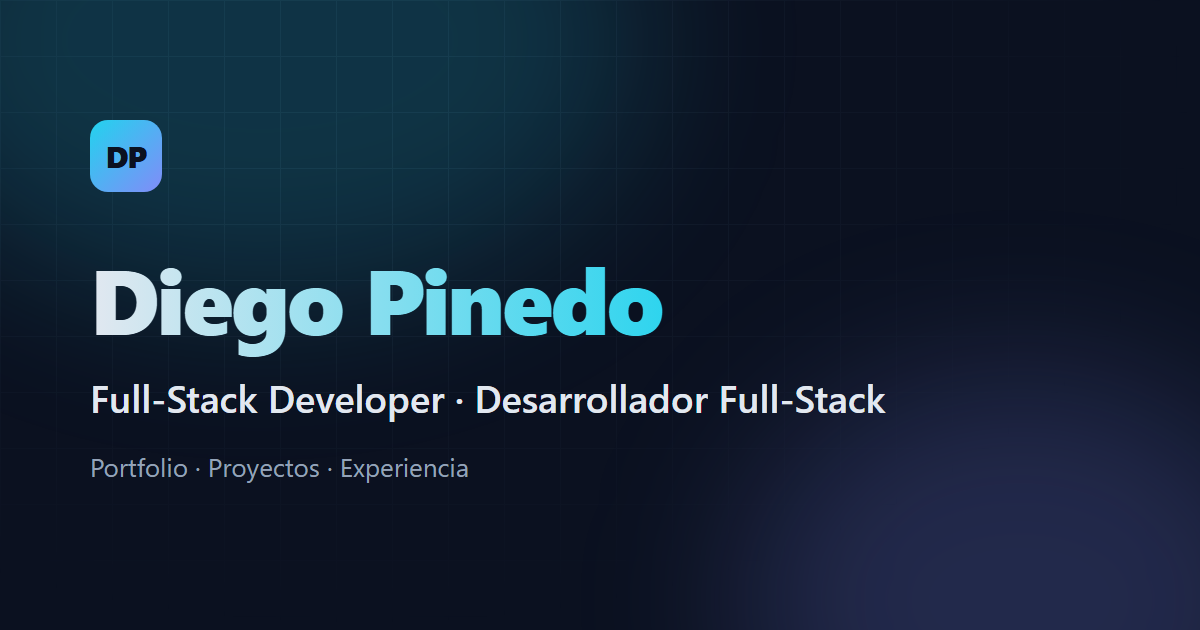
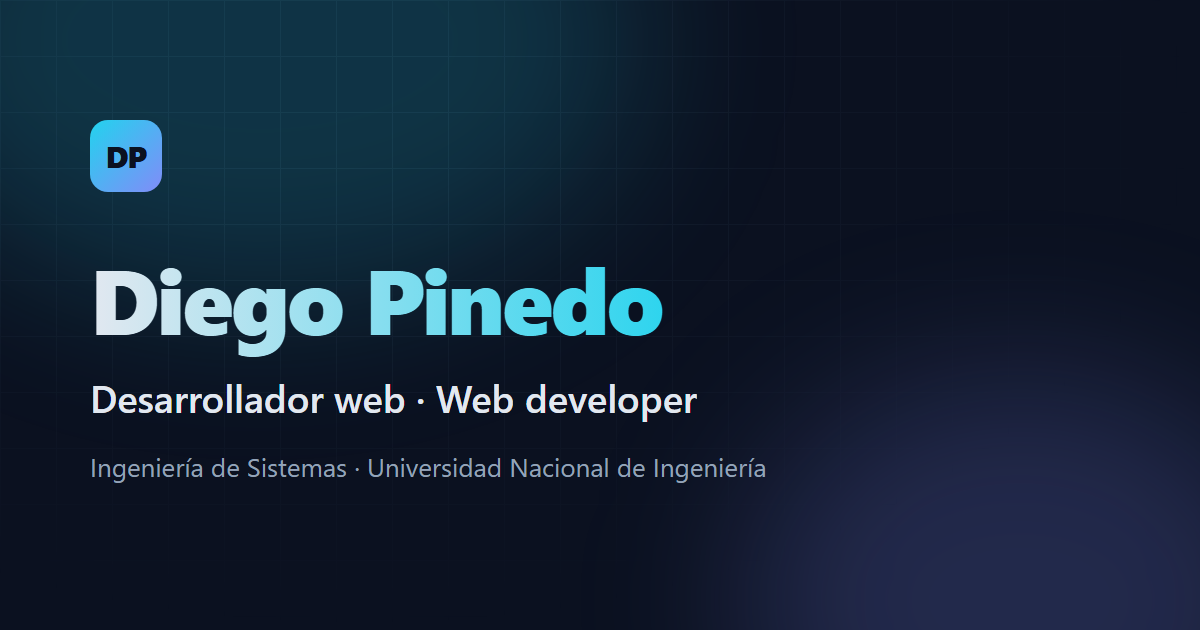
feat(content): add profile, skills and contact data from CV

Changed region(s): [[0.0617, 0.6032, 0.74, 0.6635], [0.0617, 0.7238, 0.6475, 0.7841]]

diff --git a/src/data/site.ts b/src/data/site.ts
@@ -2,22 +2,27 @@
  * Datos personales del portafolio.
  * Los valores marcados con MOCK son provisionales y deben reemplazarse por los definitivos.
  */
+import type { IconName } from '../components/ui/Icon.astro';
 import avatar from '../assets/mock/avatar.svg'; // MOCK: reemplazar por la foto de perfil (p. ej. ../assets/profile.jpg)
 
 export type Localized = { es: string; en: string };
 
 export const site = {
   name: 'Diego Pinedo',
+  fullName: 'Diego Alonso Pinedo Aponte',
   avatar,
-  role: { es: 'Desarrollador Full-Stack', en: 'Full-Stack Developer' } satisfies Localized,
-  tagline: {
-    es: 'Diseño y desarrollo aplicaciones web de punta a punta, cuidando el rendimiento, la accesibilidad y la experiencia de quien las usa.',
-    en: 'I design and build end-to-end web applications, with a focus on performance, accessibility and user experience.',
+  role: {
+    es: 'Desarrollador web · Estudiante de Ingeniería de Sistemas',
+    en: 'Web developer · Systems Engineering student',
   } satisfies Localized,
-  email: 'correo@ejemplo.com', // MOCK
+  tagline: {
+    es: 'Diseño y desarrollo plataformas web de punta a punta, desde la base de datos hasta la interfaz, y lidero equipos tecnológicos en la Universidad Nacional de Ingeniería.',
+    en: 'I design and build end-to-end web platforms, from the database to the interface, and lead tech teams at the National University of Engineering (UNI) in Lima, Peru.',
+  } satisfies Localized,
+  email: 'diego.pinedo1229@gmail.com',
   socials: {
     github: 'https://github.com/dieg0-29',
-    linkedin: 'https://www.linkedin.com/in/usuario', // MOCK
+    linkedin: 'https://www.linkedin.com/in/diego-alonso-pinedo-aponte-998ab1351/',
   },
   cv: {
     es: '/cv/cv-diego-pinedo-es.pdf', // MOCK: reemplazar los PDF en public/cv/
@@ -25,46 +30,52 @@ export const site = {
   } satisfies Localized,
   available: true,
   about: {
-    // MOCK: biografía de 2 a 3 párrafos cortos.
     es: [
-      'Soy desarrollador full-stack con experiencia creando aplicaciones web modernas, desde la interfaz hasta la API y la base de datos. Me gusta transformar problemas complejos en productos simples e intuitivos.',
-      'Trabajo principalmente con TypeScript, React, Astro y Node.js. Me importan el código limpio, las buenas prácticas de UI/UX y que cada proyecto se sienta rápido y cuidado en cualquier dispositivo.',
-      'Actualmente busco sumarme a un equipo donde pueda seguir creciendo, aportar desde el primer día y construir software que tenga impacto real.',
+      'Soy estudiante de Ingeniería de Sistemas en la Universidad Nacional de Ingeniería (UNI), en el quinto superior de mi promoción, con experiencia en diseño y arquitectura de sistemas, desarrollo web y gestión de bases de datos. Me interesa seguir aprendiendo sobre arquitectura cloud.',
+      'He participado en la creación de soluciones integrales a través de plataformas web y en la automatización de procesos operativos. Trabajo principalmente con Astro, Next.js, Supabase y PostgreSQL.',
+      'También lidero equipos tecnológicos: coordino el desarrollo de plataformas orientadas a mejorar la experiencia del usuario y aplico metodologías ágiles con GitHub Projects y GitFlow.',
     ],
     en: [
-      "I'm a full-stack developer with experience building modern web applications, from the interface to the API and the database. I enjoy turning complex problems into simple, intuitive products.",
-      'I mainly work with TypeScript, React, Astro and Node.js. I care about clean code, solid UI/UX practices, and making every project feel fast and polished on any device.',
-      "I'm currently looking to join a team where I can keep growing, contribute from day one, and build software with real impact.",
+      "I'm a Systems Engineering student at the National University of Engineering (UNI) in Lima, Peru, ranked in the top fifth of my class, with experience in systems design and architecture, web development and database management. I'm keen to keep learning about cloud architecture.",
+      "I've helped build end-to-end solutions through web platforms and automate operational processes. I mainly work with Astro, Next.js, Supabase and PostgreSQL.",
+      'I also lead tech teams: I coordinate the development of platforms focused on improving user experience and apply agile practices with GitHub Projects and GitFlow.',
     ],
   },
   facts: [
-    // MOCK
-    { key: 'about.location', value: { es: 'Ciudad, País', en: 'City, Country' } },
-    { key: 'about.focus', value: { es: 'Frontend · APIs · UX', en: 'Frontend · APIs · UX' } },
-    { key: 'about.languages', value: { es: 'Español (nativo), Inglés (B2)', en: 'Spanish (native), English (B2)' } },
+    { key: 'about.location', icon: 'map-pin', value: { es: 'Lima, Perú', en: 'Lima, Peru' } },
+    {
+      key: 'about.education',
+      icon: 'graduation',
+      value: { es: 'Ingeniería de Sistemas, UNI (7.º ciclo)', en: 'Systems Engineering, UNI (7th term)' },
+    },
+    {
+      key: 'about.focus',
+      icon: 'layout',
+      value: { es: 'Desarrollo web · Bases de datos · Cloud', en: 'Web development · Databases · Cloud' },
+    },
   ] as const,
 } as const;
 
-/** Habilidades agrupadas por categoría. MOCK: ajustar al stack tecnológico real. */
-export const skills: { title: Localized; icon: 'layout' | 'server' | 'database' | 'wrench'; items: string[] }[] = [
+/** Habilidades agrupadas por categoría. */
+export const skills: { title: Localized; icon: IconName; items: string[] }[] = [
   {
     title: { es: 'Frontend', en: 'Frontend' },
     icon: 'layout',
-    items: ['TypeScript', 'JavaScript', 'React', 'Astro', 'Next.js', 'Tailwind CSS', 'HTML & CSS'],
+    items: ['Astro', 'Next.js', 'React', 'Tailwind CSS', 'JavaScript', 'TypeScript', 'HTML', 'CSS'],
   },
   {
-    title: { es: 'Backend', en: 'Backend' },
-    icon: 'server',
-    items: ['Node.js', 'Express', 'REST APIs', 'Python', 'Autenticación JWT'],
-  },
-  {
-    title: { es: 'Bases de datos', en: 'Databases' },
+    title: { es: 'Backend y datos', en: 'Backend & data' },
     icon: 'database',
-    items: ['PostgreSQL', 'MongoDB', 'Prisma', 'SQL'],
+    items: ['NestJS', 'Python', 'Java', 'PostgreSQL', 'Supabase', 'Prisma ORM'],
   },
   {
-    title: { es: 'Herramientas', en: 'Tools' },
+    title: { es: 'Gestión y versionado', en: 'Workflow & version control' },
     icon: 'wrench',
-    items: ['Git & GitHub', 'Docker', 'Vercel', 'Figma', 'Vitest', 'Linux'],
+    items: ['Git', 'GitHub', 'GitHub Projects', 'GitFlow', 'Vercel'],
+  },
+  {
+    title: { es: 'Certificaciones', en: 'Certifications' },
+    icon: 'star',
+    items: ['Power BI Intermedio (UNI)', 'Excel Intermedio'],
   },
 ];

diff --git a/src/i18n/ui.ts b/src/i18n/ui.ts
@@ -8,9 +8,9 @@ export const defaultLang: Lang = 'es';
 
 export const ui = {
   es: {
-    'meta.title': 'Diego Pinedo — Desarrollador Full-Stack',
+    'meta.title': 'Diego Pinedo — Desarrollador web',
     'meta.description':
-      'Portafolio de Diego Pinedo: proyectos, habilidades y experiencia en desarrollo web full-stack.',
+      'Portafolio de Diego Pinedo, desarrollador web y estudiante de Ingeniería de Sistemas en la UNI: proyectos, habilidades y experiencia.',
     'skip': 'Saltar al contenido',
     'nav.about': 'Sobre mí',
     'nav.skills': 'Habilidades',
@@ -30,10 +30,10 @@ export const ui = {
     'hero.statTech': 'tecnologías',
     'hero.avatarAlt': 'Foto de Diego Pinedo',
     'about.eyebrow': 'Sobre mí',
-    'about.title': 'Construyo productos web claros, rápidos y bien hechos',
+    'about.title': 'Construyo plataformas web que resuelven problemas reales',
     'about.location': 'Ubicación',
+    'about.education': 'Formación',
     'about.focus': 'Enfoque',
-    'about.languages': 'Idiomas',
     'skills.eyebrow': 'Habilidades',
     'skills.title': 'Tecnologías con las que trabajo',
     'skills.subtitle': 'Herramientas que uso a diario para llevar ideas a producción.',
@@ -56,7 +56,7 @@ export const ui = {
     'projects.year': 'Año',
     'projects.status': 'Estado',
     'experience.eyebrow': 'Trayectoria',
-    'experience.title': 'Experiencia y formación',
+    'experience.title': 'Liderazgo, experiencia y formación',
     'experience.present': 'Actualidad',
     'contact.eyebrow': 'Contacto',
     'contact.title': '¿Trabajamos juntos?',
@@ -72,9 +72,9 @@ export const ui = {
     '404.home': 'Ir al inicio',
   },
   en: {
-    'meta.title': 'Diego Pinedo — Full-Stack Developer',
+    'meta.title': 'Diego Pinedo — Web Developer',
     'meta.description':
-      'Portfolio of Diego Pinedo: projects, skills and experience in full-stack web development.',
+      'Portfolio of Diego Pinedo, web developer and Systems Engineering student at UNI (Lima, Peru): projects, skills and experience.',
     'skip': 'Skip to content',
     'nav.about': 'About',
     'nav.skills': 'Skills',
@@ -94,10 +94,10 @@ export const ui = {
     'hero.statTech': 'technologies',
     'hero.avatarAlt': 'Photo of Diego Pinedo',
     'about.eyebrow': 'About me',
-    'about.title': 'I build clear, fast and well-crafted web products',
+    'about.title': 'I build web platforms that solve real problems',
     'about.location': 'Location',
+    'about.education': 'Education',
     'about.focus': 'Focus',
-    'about.languages': 'Languages',
     'skills.eyebrow': 'Skills',
     'skills.title': 'Technologies I work with',
     'skills.subtitle': 'Tools I use every day to take ideas to production.',
@@ -120,7 +120,7 @@ export const ui = {
     'projects.year': 'Year',
     'projects.status': 'Status',
     'experience.eyebrow': 'Journey',
-    'experience.title': 'Experience & education',
+    'experience.title': 'Leadership, experience & education',
     'experience.present': 'Present',
     'contact.eyebrow': 'Contact',
     'contact.title': "Let's work together",
